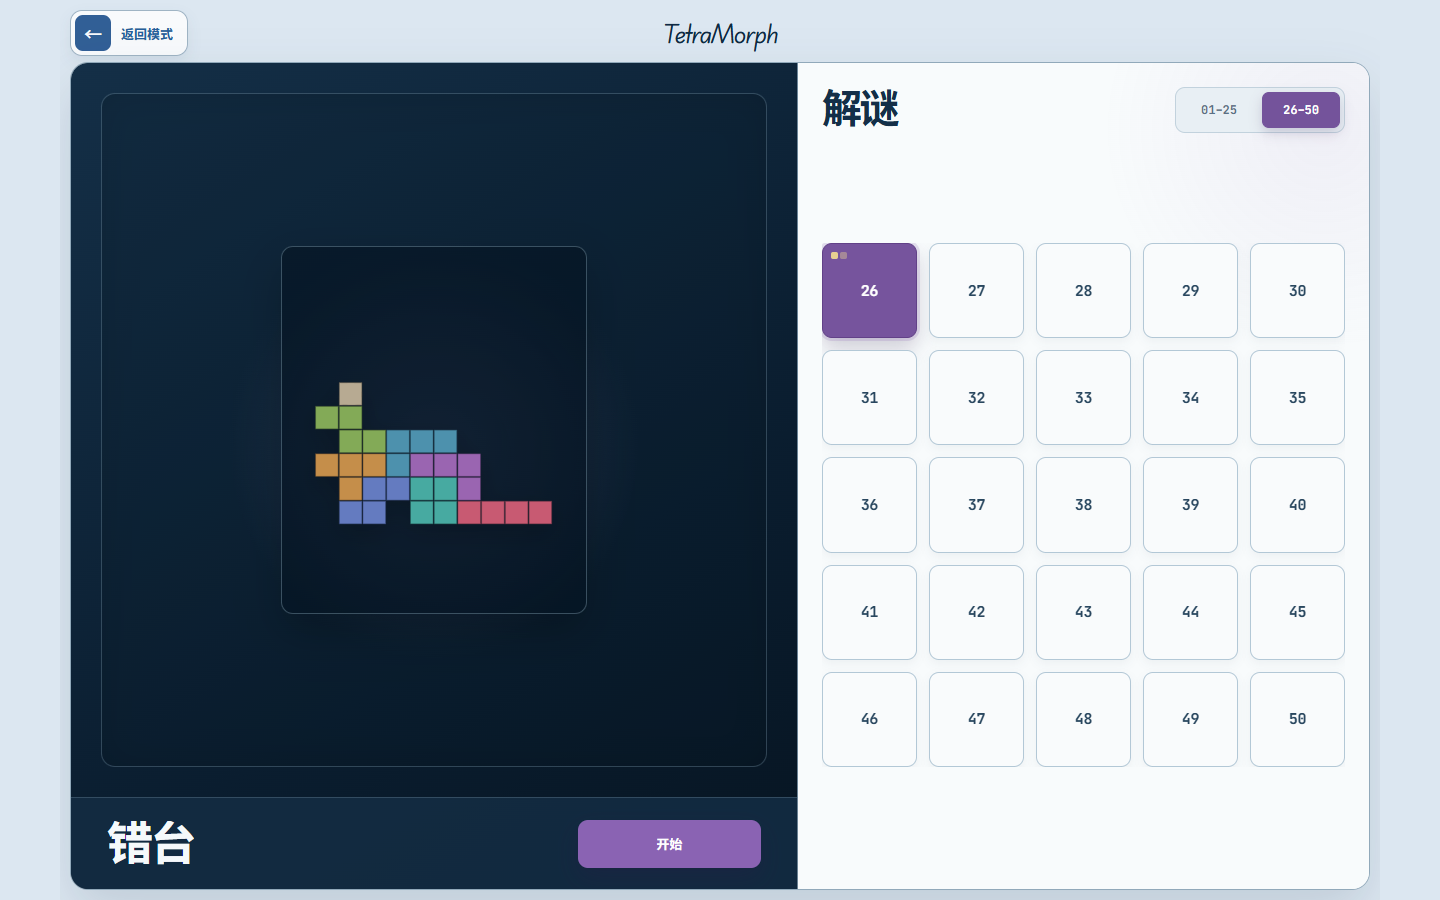
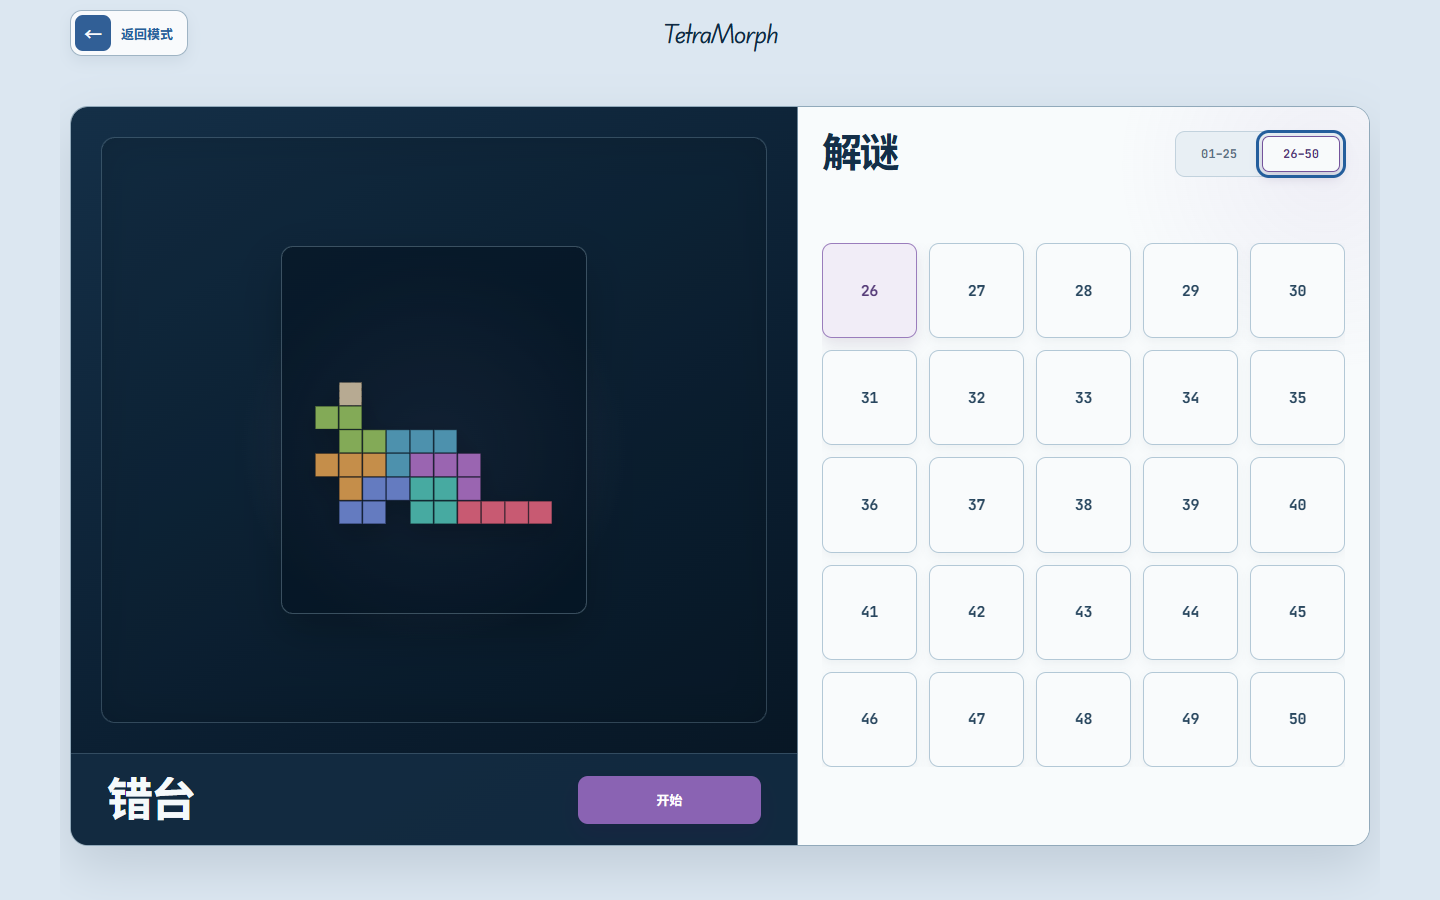
test(phase9): refresh final candidate evidence

Changed region(s): [[0.0312, 0.8089, 0.9688, 0.9956], [0.0312, 0.0622, 0.9375, 0.2178], [0.5625, 0.2489, 0.6562, 0.4044]]

diff --git a/docs/qa/evidence/t16-phase9/README.md b/docs/qa/evidence/t16-phase9/README.md
@@ -3,12 +3,12 @@
 ## Candidate
 
 - Phase base: `4fc15b8`
-- Final product-source candidate: `348209f`
-- Evidence-contract tip before capture: `dc9abbf`
+- Final product-source candidate: `ba6bbb6`
+- Evidence-contract tip before final correction: `3f79b14`
 - Browser URL: `http://127.0.0.1:5178/`
 - Captured: 2026-07-31
-- Scope: home pointer-leave behavior, square two-page Puzzle gallery, ready-state
-  visibility, and mode-aware result ledgers
+- Scope: home pointer-leave behavior, square two-page Puzzle gallery with a
+  content-fit centered frame, ready-state visibility, and mode-aware result ledgers
 
 The navigation, countdown, and result frames in this directory were regenerated from
 the final product-source candidate. One managed Chrome process was used for the full
@@ -23,7 +23,7 @@ navigation, ready-state, or result-ledger corrections recorded here.
 ## Final gates
 
 - `npm.cmd run typecheck`: PASS
-- `npm.cmd run test -- --maxWorkers=1`: PASS — 29 files, 260 tests
+- `npm.cmd run test -- --maxWorkers=1`: PASS — 29 files, 261 tests
 - `npm.cmd run build`: PASS — 756 modules
 - Build note: Vite retained its existing non-blocking chunk-size advisory.
 
@@ -49,6 +49,13 @@ navigation, ready-state, or result-ledger corrections recorded here.
   `390×844`, and `58.8 px` at `360×800`.
 - Desktop gaps are `12 px`; short-landscape gaps are `6 px`; portrait gaps are
   `8 px`. Grid width/height equal scroll width/height in every frame.
+- At `1440×900`, the connected frame is capped at exactly `740 px`, centered at
+  `y=106 px`, and has equal client/scroll height. It no longer stretches to the
+  bottom of a tall viewport or clings to the top of the available content row.
+- First-row hover has a `0 px` vertical delta and retains its complete `1 px` top
+  border. The two meaningless selected-corner squares have been removed.
+- The page tablist moves and activates with Left/Right/Home/End; live ArrowRight
+  moved focus and selection to `26–50`, and Home returned both to `01–25`.
 - Chinese and English page-two frames retain the connected preview, localized name,
   current best, and Start action without clipping.
 
@@ -66,10 +73,12 @@ navigation, ready-state, or result-ledger corrections recorded here.
 
 - Classic presents `消行 / 分数`; Survival presents only
   `生存时间 / 消行`; Mutation presents `Lines / Score`.
-- Ranked Classic, Survival, and Mutation runs show an explicit current-run rank and
-  current leaderboard row.
+- Ranked Classic, Survival, and Mutation runs show one explicit current-run row.
+  The redundant separate `本局第 N 名 / This run · #N` label is absent.
 - The seeded Classic comparison shows `未进入前 5` and no current-run row, proving
   the unranked branch.
+- At `844×390`, the unranked Classic panel has equal client/scroll height; all five
+  leaderboard rows and both actions are visible in the first frame.
 - Result frames at `1440×900`, `844×390`, and `390×844` have equal document
   client/scroll geometry.
 
